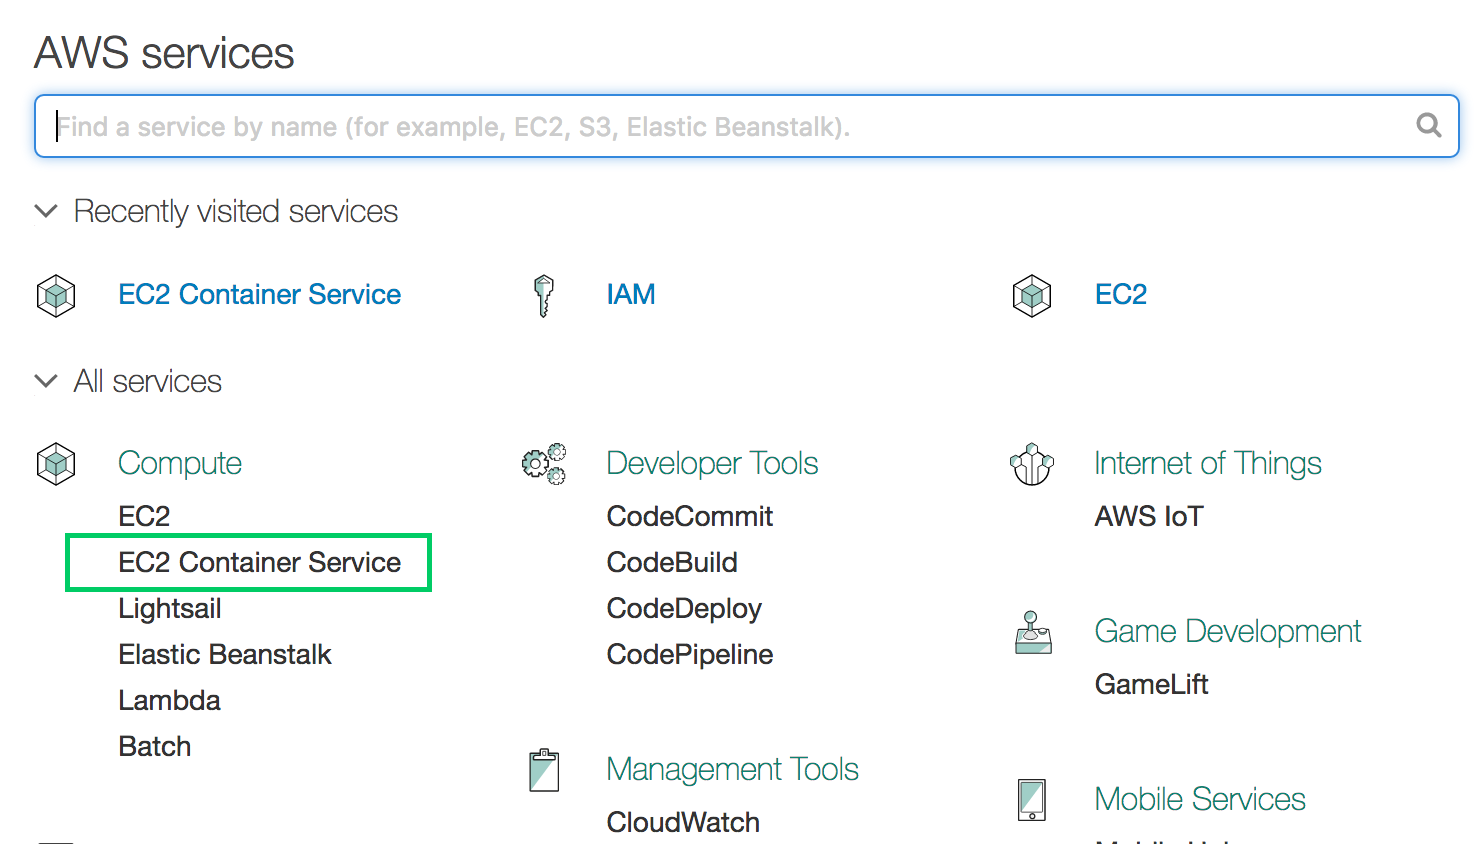
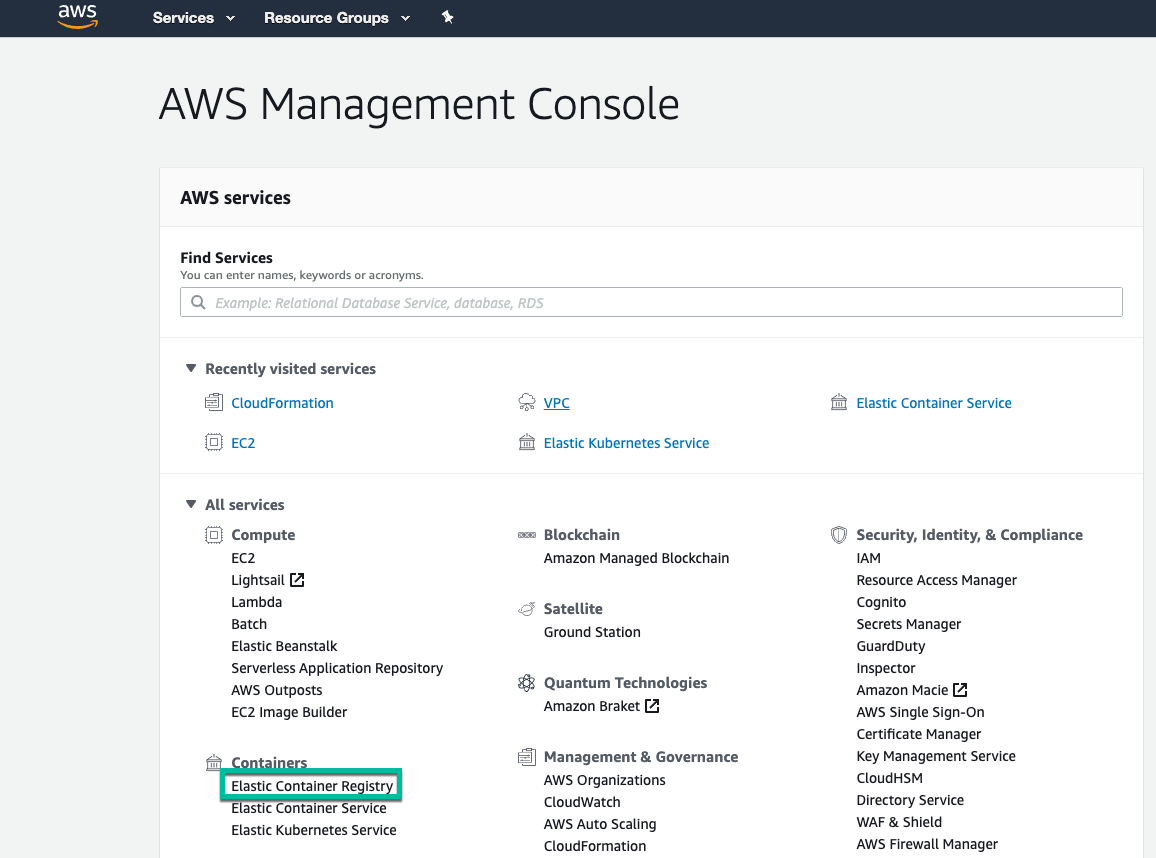
Updated ECR docs

diff --git a/docs/packaging-applications/package-repositories/docker-registries/amazon-ec2-container-services.md b/docs/packaging-applications/package-repositories/docker-registries/amazon-ec2-container-services.md
@@ -1,15 +1,15 @@
 ---
-title: AWS EC2 container services
-description: How to add an AWS Docker Registry as an Octopus Deploy feed for use in Docker steps.
+title: AWS Elastic Container Registry (ECR)  
+description: How to add an AWS Elastic Container Registry as an Octopus feed 
 position: 2
 ---
 
-## Amazon - EC2 container service
+## AWS Elastic Container Registry (ECR)  
 
-AWS provides a v2 Docker Image registry and is available through their [EC2 Container Service](https://aws.amazon.com/ecs/) offering. From **Octopus 2018.8.0**, support for EC2 Container registries is provided as a special feed type itself.
+AWS provides a Docker Image registry, known as [Elastic Container Registry (ECR)](https://aws.amazon.com/ecr/) . From **Octopus 2018.8.0**, support for EC2 Container registries is provided as a special feed type itself.
 
 ### Setting up an AWS elastic container registry
-From the AWS Services dashboard go to `EC2 Container Service`.
+From the AWS Services dashboard go to `Elastic Container Registry`.
 
  ![AWS Services](images/aws-services.png "width=500")
 
@@ -28,7 +28,8 @@ Further links for getting your AWS registry set up are available in their [onlin
 
 Save and test your registry to ensure that the connection is authorized successfully.
 
-### Previous version of Octopus Deploy
+### Older versions of Octopus Deploy
+
 The first class AWS ECR feed type was provided in **Octopus 2018.8.0** to handle the ephemeral authorization credentials provided by AWS that [only last 12 hours](http://docs.aws.amazon.com/AmazonECR/latest/userguide/Registries.html). If you are using an earlier version of Octopus Deploy, you will need to use a standard Docker Feed type.
 
 After configuring your registry in AWS as outlined above you will need to obtain the Docker Feed credentials by manually invoking a command via the AWS cli. Details for setting this up can be found in the [AWS installation guides](http://docs.aws.amazon.com/cli/latest/userguide/installing.html). With the cli installed, run (with the appropriate region)
